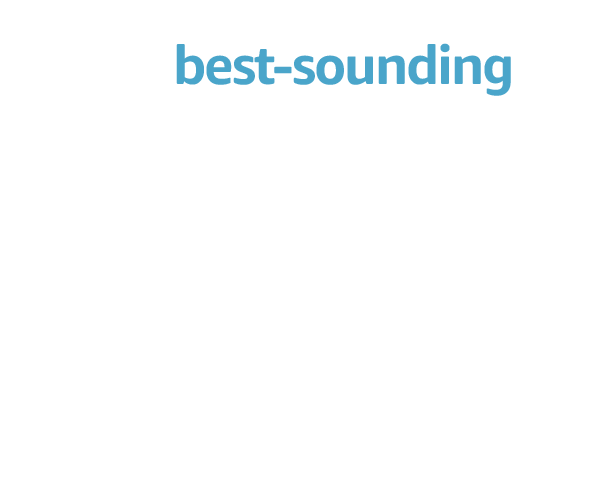
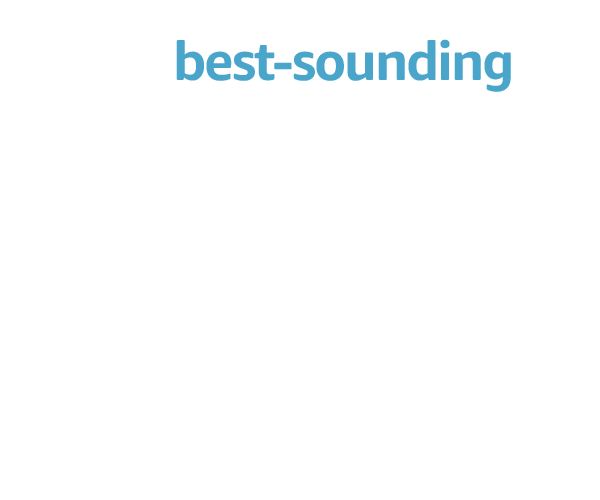
Clipping tweaks

Changed region(s): [[0.3, 0.06, 0.87, 0.21]]

diff --git a/staging/echo-studio_np_300x250_dark/style.css b/staging/echo-studio_np_300x250_dark/style.css
@@ -87,10 +87,10 @@
   clip: rect(53px 300px 250px 0);
 }
 #copy2a {
-  clip: rect(0 300px 53px 0);
+  clip: rect(0 300px 46px 0);
 }
 #copy2b {
-  clip: rect(53px 300px 250px 0);
+  clip: rect(47px 300px 250px 0);
 }
 
 #slash {

diff --git a/staging/echo-studio_p_300x250_dark/style.css b/staging/echo-studio_p_300x250_dark/style.css
@@ -87,10 +87,10 @@
   clip: rect(53px 300px 250px 0);
 }
 #copy2a {
-  clip: rect(0 300px 53px 0);
+  clip: rect(0 300px 46px 0);
 }
 #copy2b {
-  clip: rect(53px 300px 250px 0);
+  clip: rect(47px 300px 250px 0);
 }
 
 #slash {
